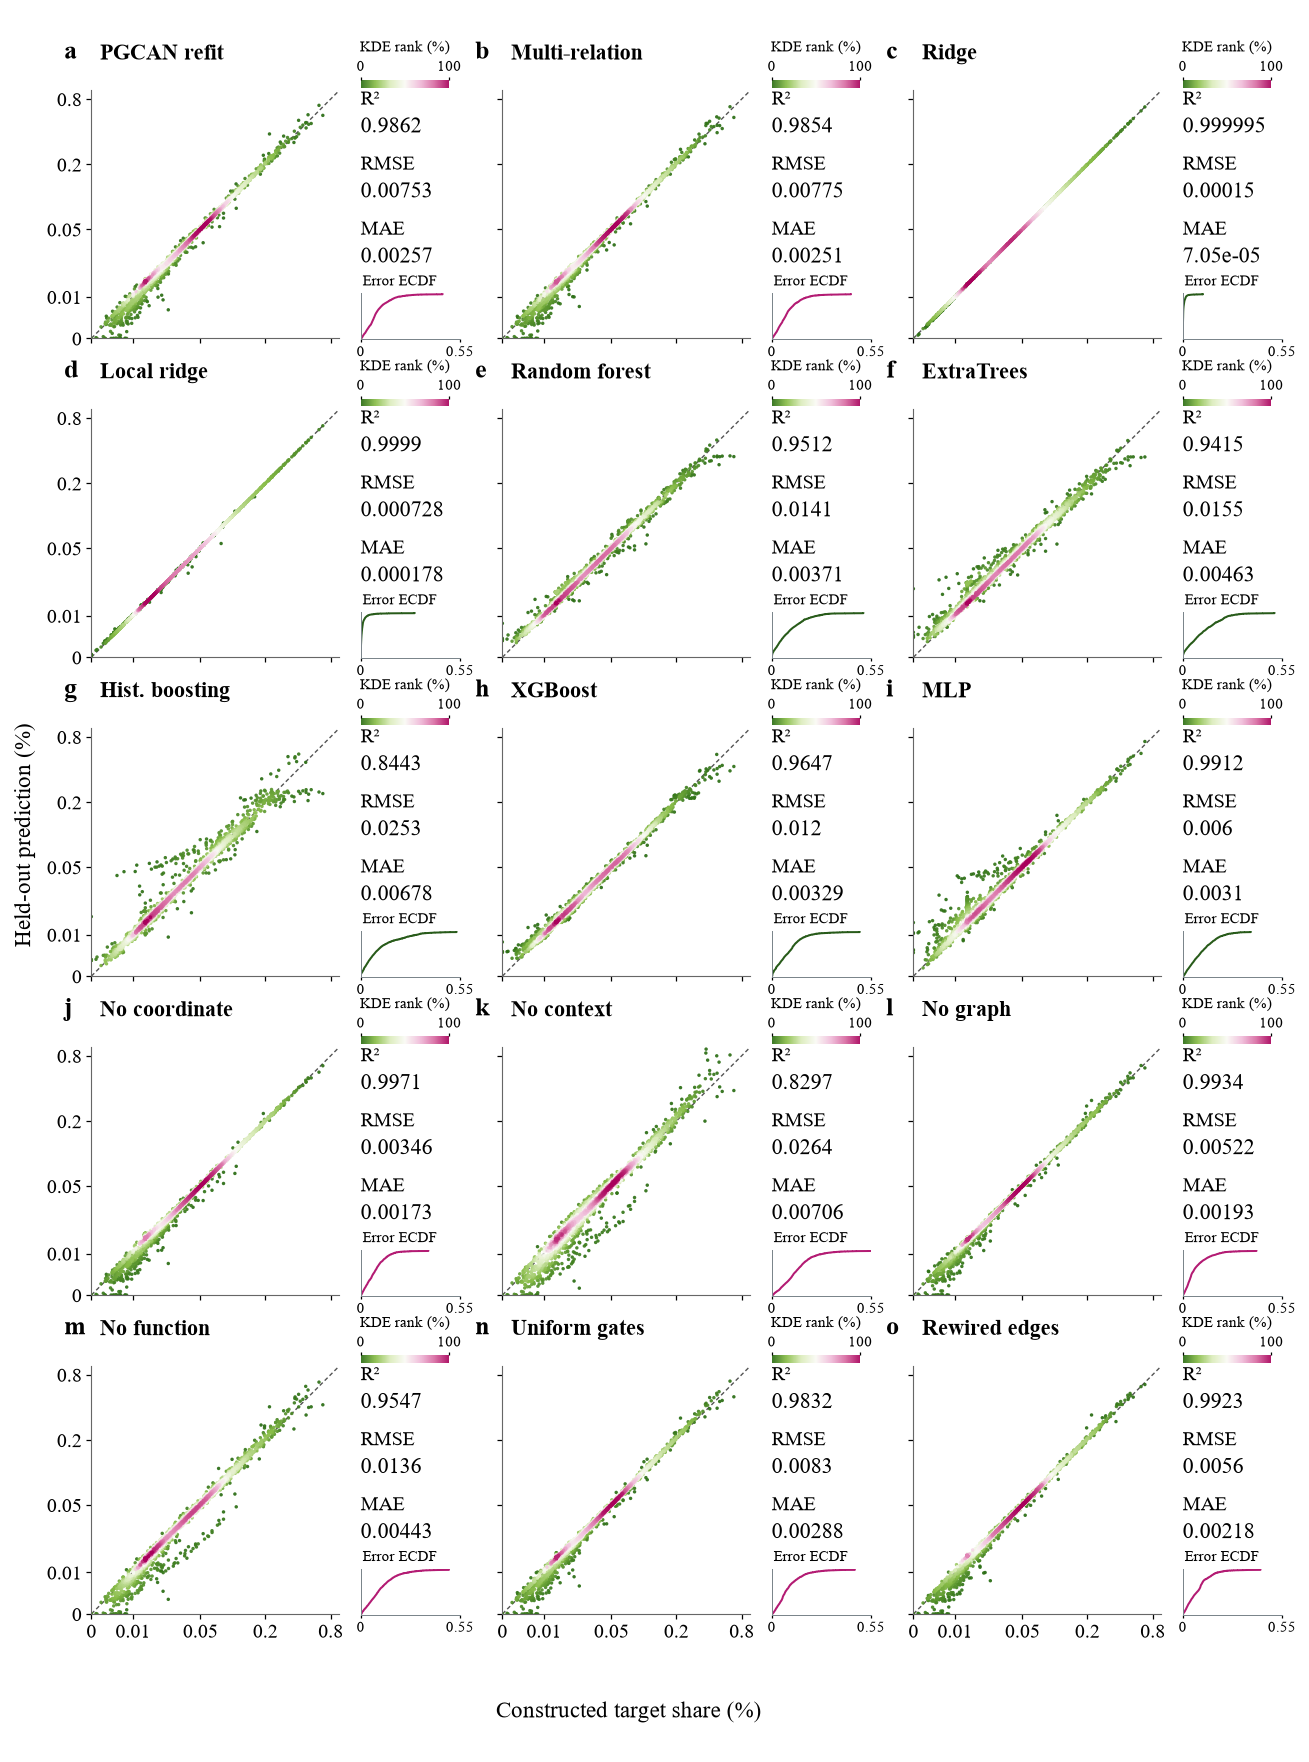
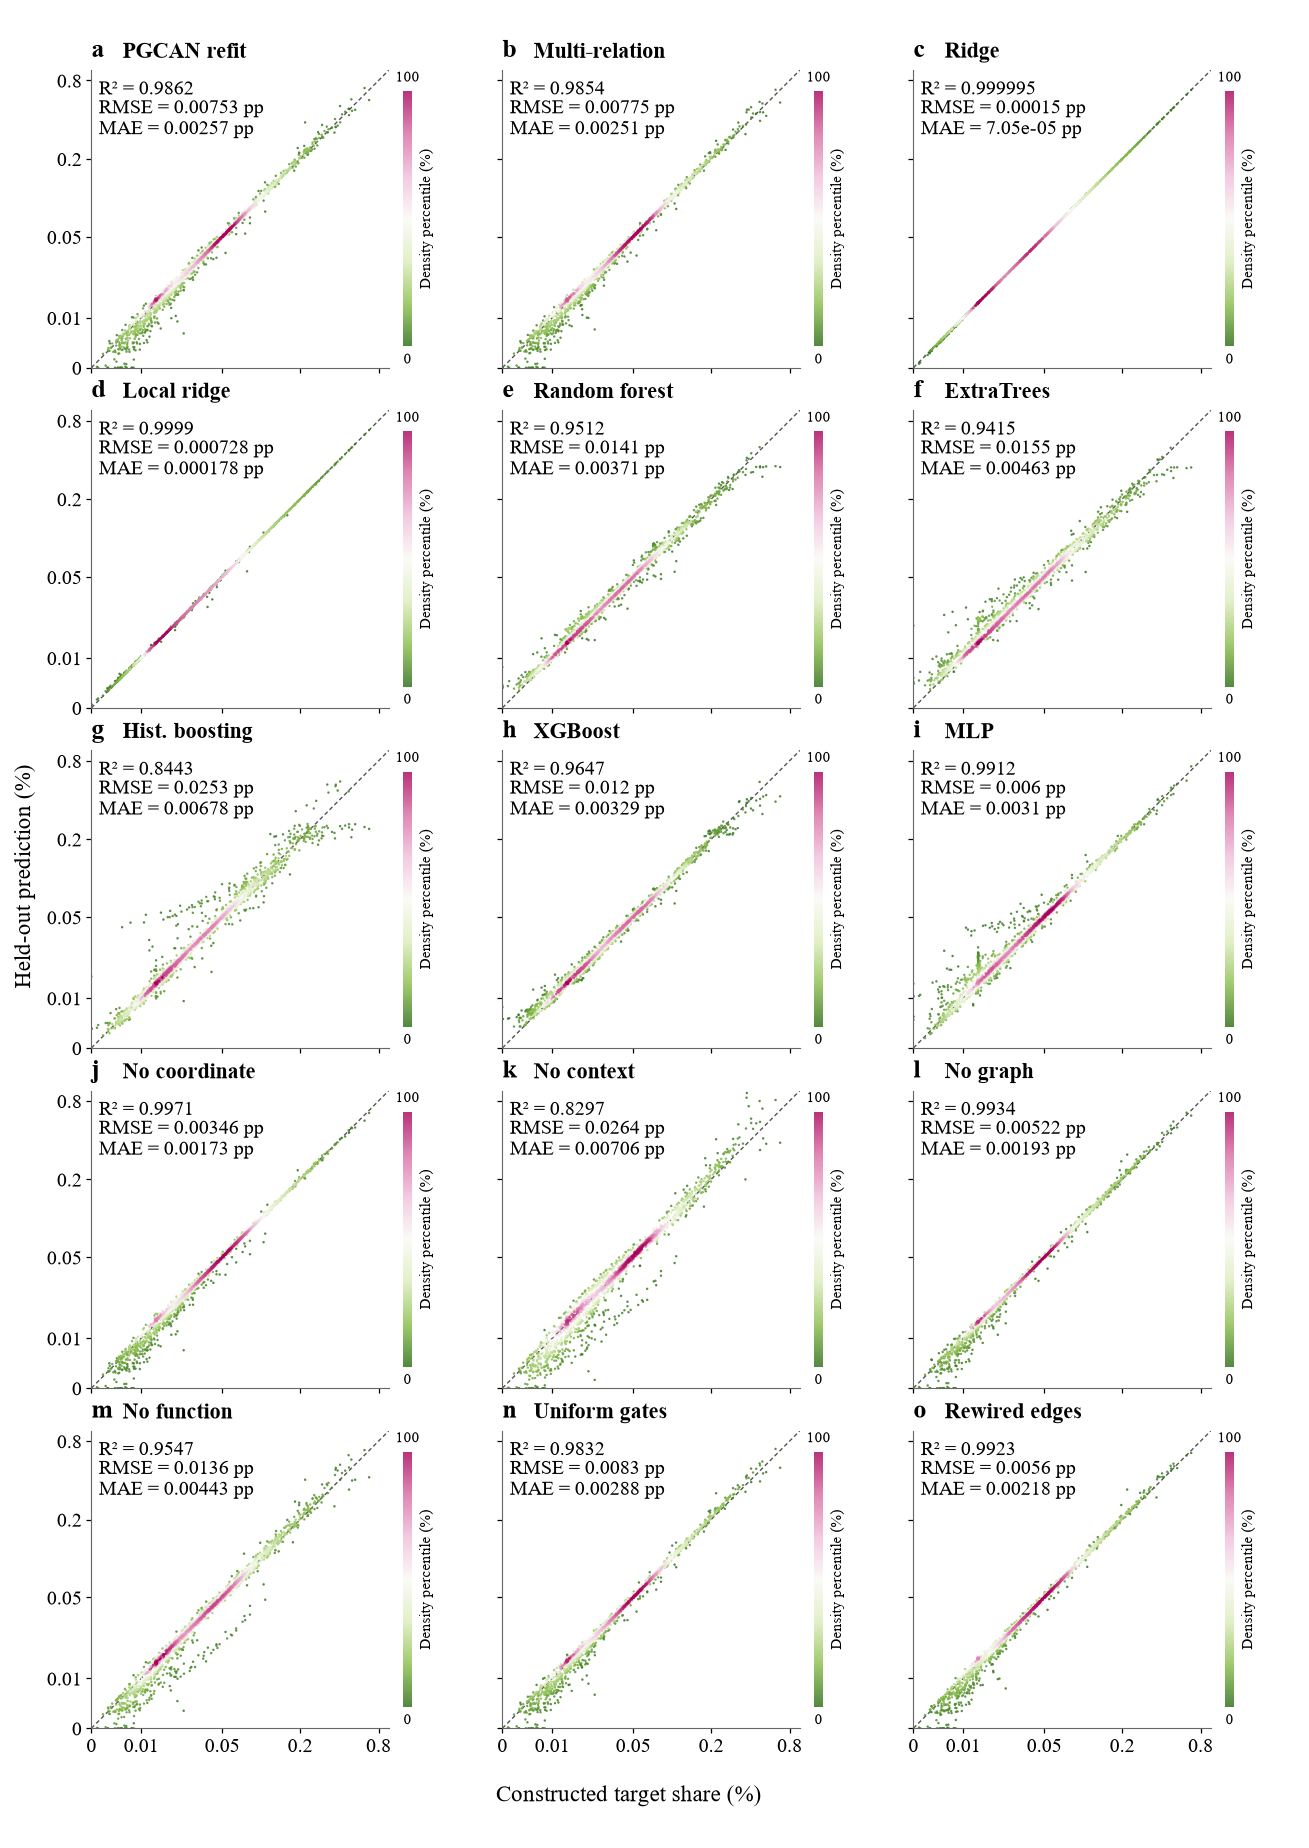
Use vertical density bars and upper-left scores in single-scatter atlas

diff --git a/analysis/plot_prediction_matrix.py b/analysis/plot_prediction_matrix.py
@@ -1,4 +1,4 @@
-"""Held-out model atlas: true point clouds, separate metrics and error ECDFs.
+"""Held-out model atlas: one true scatter, upper-left metrics and vertical bar.
 
 Explicit user requirements select black Times New Roman and pink/green. All
 1,980 real cells are drawn per model; no jitter, sampled points or fitted bands.
@@ -35,17 +35,14 @@ def draw():
     transform=lambda value:np.arcsinh(value/.01)
     upper=max(target.max(),max(a.max() for a in means.values()))*1.045
     maximum=float(transform(upper));xt=transform(target)
-    error_upper=max(np.abs(a-target).max() for a in means.values())*1.015
-    error_transform=lambda value:np.arcsinh(value/.001)
-    error_max=float(error_transform(error_upper))
-    width,height=183,247
+    width,height=183,259
     fig=plt.figure(figsize=(width/25.4,height/25.4));fig._font_scale=1.
     def axes(x,y,w,h):return fig.add_axes([x/width,y/height,w/width,h/height])
     ticks=np.array([0,.01,.05,.2,.8]);ticks=ticks[ticks<=upper]
-    metrics=[];points=[];styling=[];ecdf_records=[];kde_checks=[]
+    metrics=[];points=[];styling=[];ecdf_records=[];residual_records=[];kde_checks=[]
     for index,(key,label) in enumerate(METHODS):
-        row,col=divmod(index,3);left=12+58*col;bottom=200-45*row
-        ax=axes(left,bottom,35,35)
+        row,col=divmod(index,3);left=12+58*col;bottom=208-48*row
+        ax=axes(left,bottom,42,42)
         prediction=means[key];yp=transform(prediction);sample=np.vstack([xt,yp])
         # KDE changes colour only. Locations remain actual target/prediction
         # pairs, including zero targets. Covariance is not inflated or jittered.
@@ -56,7 +53,7 @@ def draw():
         assert np.isfinite(density).all() and (density>0).all()
         order=np.argsort(density,kind='stable')
         artist=ax.scatter(xt[order],yp[order],c=percentile[order],cmap=v.DENSITY,
-            norm=Normalize(0,100),s=1.9,lw=0,alpha=.92,rasterized=True)
+            norm=Normalize(0,100),s=.95,lw=0,alpha=.80,rasterized=True)
         ax.plot([0,maximum],[0,maximum],c='#535353',lw=.55,ls=(0,(3,2)),zorder=0)
         ax.set(xlim=(0,maximum),ylim=(0,maximum),aspect='equal')
         for axis in [ax.xaxis,ax.yaxis]:
@@ -64,35 +61,27 @@ def draw():
             axis.set_major_formatter(FixedFormatter([f'{value:g}' for value in ticks]))
         ax.tick_params(length=2,pad=1.8,labelsize=8.2,labelleft=col==0,labelbottom=row==4)
         ax.spines[['left','bottom']].set_color('#666666');ax.spines[['left','bottom']].set_linewidth(.45)
-        ax.text(-.11,1.105,string.ascii_lowercase[index],transform=ax.transAxes,
+        ax.text(0,1.025,string.ascii_lowercase[index],transform=ax.transAxes,
             fontsize=10.5,fontweight='bold',va='bottom')
-        ax.text(.035,1.105,label,transform=ax.transAxes,fontsize=8.8,fontweight='bold',va='bottom')
+        ax.text(.105,1.025,label,transform=ax.transAxes,fontsize=8.8,fontweight='bold',va='bottom')
         rmse=float(np.sqrt(mean_squared_error(target,prediction)))
         mae=float(mean_absolute_error(target,prediction));r2=float(r2_score(target,prediction))
         actual=[r2,rmse,mae]
         np.testing.assert_allclose(actual,old_metrics.loc[key,['pooled_oof_r2','pooled_oof_rmse_pp','pooled_oof_mae_pp']].to_numpy(float),rtol=1e-12,atol=1e-14)
-        info=axes(left+38,bottom+8,14,27);info.axis('off')
-        for yy,name,value in [(1.,'R²',r2),(.66,'RMSE',rmse),(.32,'MAE',mae)]:
-            info.text(0,yy,name,fontsize=8.2,va='top')
-            display=(f'{value:.6f}'.rstrip('0').rstrip('.') if value>.9999 else f'{value:.4f}') if name=='R²' else f'{value:.3g}'
-            info.text(0,yy-.14,display,fontsize=8.8,va='top')
-        cax=axes(left+38,bottom+35.4,12.5,1.1)
-        cb=fig.colorbar(artist,cax=cax,orientation='horizontal',ticks=[0,100])
-        cb.outline.set_visible(False);cb.ax.xaxis.set_ticks_position('top')
-        cb.ax.tick_params(length=1.2,pad=1,labelsize=6.2)
-        text=cb.ax.text(.5,4.2,'KDE rank (%)',transform=cb.ax.transAxes,ha='center',va='bottom',fontsize=6.2)
-        text.set_gid('compact_diagnostic_label')
-        for text in cb.ax.get_xticklabels():text.set_gid('compact_diagnostic_label')
+        r2_display=f'{r2:.6f}'.rstrip('0').rstrip('.') if r2>.9999 else f'{r2:.4f}'
+        ax.text(.025,.975,f'R² = {r2_display}\nRMSE = {rmse:.3g} pp\nMAE = {mae:.3g} pp',
+            transform=ax.transAxes,fontsize=8.2,va='top',ha='left',linespacing=1.12)
+        cax=axes(left+44,bottom+3,1.25,36)
+        cb=fig.colorbar(artist,cax=cax,orientation='vertical',ticks=[])
+        cb.outline.set_visible(False)
+        for xx,yy,txt,rotation,va in [(.5,-.025,'0',0,'top'),(.5,1.025,'100',0,'bottom'),(2.6,.5,'Density percentile (%)',90,'center')]:
+            text=cb.ax.text(xx,yy,txt,transform=cb.ax.transAxes,ha='center',va=va,rotation=rotation,fontsize=6.2)
+            text.set_gid('compact_diagnostic_label')
         residual=np.abs(prediction-target);sorted_error=np.sort(residual)
         fraction=np.arange(1,len(target)+1)/len(target)
-        small=axes(left+38,bottom-.15,14,6.5)
-        colour=v.INK if key.endswith('_direct') else v.LILAC
-        small.step(error_transform(sorted_error),fraction,where='post',c=colour,lw=.8)
-        small.set(xlim=(0,error_max),ylim=(0,1.02),xticks=[0,error_max],yticks=[])
-        small.set_xticklabels(['0',f'{error_upper:.2g}'],fontsize=6.2)
-        small.tick_params(length=1.4,pad=1);small.spines[['left','bottom']].set_linewidth(.4)
-        text=small.text(.02,1.10,'Error ECDF',transform=small.transAxes,fontsize=6.2,va='bottom');text.set_gid('compact_diagnostic_label')
-        for text in small.get_xticklabels():text.set_gid('compact_diagnostic_label')
+        signed_error=prediction-target
+        residual_records.append(pd.DataFrame({'method':key,'grid_id':cells.grid_id,
+            'target_share_pct':target,'signed_residual_pp':signed_error}))
         assert len(artist.get_offsets())==len(target)
         fig._panel_descriptions=getattr(fig,'_panel_descriptions',{})
         fig._panel_descriptions[string.ascii_lowercase[index]]=label
@@ -111,8 +100,9 @@ def draw():
     backdrop.text(.006,.526,'Held-out prediction (%)',rotation=90,ha='left',va='center',fontsize=9)
     backdrop.text(.48,.025,'Constructed target share (%)',ha='center',va='center',fontsize=9)
     fig._layout={'canvas_mm':[width,height],'panel_count':15,'primary_models_in_first_row':['PGCAN','Multi_relation','Ridge_direct'],
-        'scatter_side_mm':35,'metric_column_mm':14,'individual_horizontal_colourbars':15,'error_ecdf_insets':15,
-        'metrics_outside_data_area':True,'repeated_inner_tick_labels_suppressed':True,'no_global_title':True}
+        'scatter_side_mm':42,'individual_vertical_colourbars':15,'signed_residual_strips':0,
+        'metrics_location':'upper left inside each scatter','one_scatter_per_model':True,
+        'repeated_inner_tick_labels_suppressed':True,'no_global_title':True}
     fig._density_encoding={'type':'KDE percentile','unit':'within-panel density percentile (%)','bandwidth':'Scott',
         'point_positions':'Unmodified asinh(share_pct/0.01)','all_cells_retained':1980,'colourbar_ticks':[0,100],
         'numeric_ties':'Natural-log density rounded to 10 decimals before average-rank assignment'}
@@ -120,23 +110,23 @@ def draw():
     pd.concat(points,ignore_index=True).to_csv(S/'Benchmark_prediction_density_points.csv',index=False)
     pd.concat(styling,ignore_index=True).to_csv(S/'Benchmark_prediction_density_styling.csv',index=False)
     pd.concat(ecdf_records,ignore_index=True).to_csv(S/'Benchmark_prediction_error_ecdf.csv',index=False)
-    caption=('Held-out reconstruction and error distributions for fifteen model configurations. '
+    pd.concat(residual_records,ignore_index=True).to_csv(S/'Benchmark_prediction_signed_residuals.csv',index=False)
+    caption=('Spatially held-out predictions for fifteen model configurations. '
         'The first row contrasts PGCAN, the multi-relation candidate and ridge; rows two and three contain remaining classical baselines, and rows four and five contain six graph/branch controls. '
         'Every scatter shows all 1,980 actual cells, including six zero targets; no points are sampled, jittered or moved. Stochastic methods use the mean of three matched-seed out-of-fold predictions and deterministic methods one run. '
         'Scatter positions use identical axes with asinh(share in percent/0.01); tick labels show original percentage shares. The dashed diagonal denotes equality. '
-        'Colour is the within-panel percentile of a bivariate Gaussian kernel-density estimate in display coordinates, with Scott bandwidth: green sparse exterior to pink dense core. Each panel has a horizontal 0–100 percentile colourbar. These are density ranks, not cell counts, signed errors or comparable absolute density magnitudes. '
-        'Separate right-hand columns report R², RMSE and MAE from untransformed percentage shares; errors are percentage points (pp). Values above 0.9999 use six decimal places to distinguish near-exact from perfect reconstruction. '
-        'Each lower-right inset is the empirical cumulative distribution of absolute error for the same 1,980 cells, with common limits and asinh(error in pp/0.001) positions; endpoints show raw pp. Green ECDFs denote direct-share comparators and pink ECDFs denote other model configurations; curves are not confidence intervals. '
+        'Colour is the within-panel percentile of a bivariate Gaussian kernel-density estimate in display coordinates, with Scott bandwidth: green sparse exterior to pink dense core. Each panel has a vertical 0–100 density-percentile colourbar. These are density ranks, not cell counts, signed errors or comparable absolute density magnitudes. '
+        'The upper-left corner of each scatter reports R², RMSE and MAE from untransformed percentage shares; errors are percentage points (pp). Values above 0.9999 use six decimal places to distinguish near-exact from perfect reconstruction. Each model has exactly one scatter panel; no duplicate residual plot is included. '
         'Five spatial folds use 10 km blocks and a 1 km centroid buffer. Held-out shares retain training-mass calibration and are not renormalized against test targets. '
         'Targets are deterministic constructed proxies rather than measured emissions. All metrics and unfavourable comparisons are retained unchanged; these panels quantify proxy reconstruction only.')
     v.save(fig,'Figure_13',['Benchmark_cell_manifest.csv','Benchmark_prediction_density_metrics.csv',
-        'Benchmark_prediction_density_points.csv','Benchmark_prediction_density_styling.csv','Benchmark_prediction_error_ecdf.csv'],caption)
+        'Benchmark_prediction_density_points.csv','Benchmark_prediction_density_styling.csv','Benchmark_prediction_signed_residuals.csv'],caption)
     (P/'qa/prediction_matrix_design_review.json').write_text(json.dumps({'status':'RENDERED_FOR_REVIEW',
         'layout':v.manifest[-1]['layout'],'density_encoding':v.manifest[-1]['density_encoding'],
         'kde_checks':kde_checks,'all_numeric_metrics_unchanged':True},indent=2),encoding='utf-8')
     old=json.loads((P/'figure_manifest.json').read_text(encoding='utf-8'));new={item['figure']:item for item in v.manifest}
     current=[new.pop(item['figure'],item) for item in old if item['figure']!='Figure_14']+list(new.values())
     (P/'figure_manifest.json').write_text(json.dumps(current,indent=2,ensure_ascii=False),encoding='utf-8')
-    print('OOF_MODEL_ATLAS_READY: 15 point clouds, 15 error ECDFs; metrics unchanged',flush=True)
+    print('OOF_MODEL_ATLAS_READY: 15 single point clouds, upper-left metrics, 15 vertical density bars; metrics unchanged',flush=True)
 
 if __name__=='__main__':draw()

diff --git a/analysis/verify_prediction_atlas.py b/analysis/verify_prediction_atlas.py
@@ -1,4 +1,4 @@
-"""Independently reproduce every displayed metric, density rank and error ECDF."""
+"""Independently reproduce displayed metrics and density ranks; audit layout."""
 import os
 from pathlib import Path
 import json,hashlib
@@ -13,7 +13,7 @@ def main():
     cells=pd.read_csv(S/'Benchmark_cell_manifest.csv');target=cells.target_share.to_numpy()*100
     metrics=pd.read_csv(S/'Benchmark_prediction_density_metrics.csv')
     styling=pd.read_csv(S/'Benchmark_prediction_density_styling.csv')
-    ecdf=pd.read_csv(S/'Benchmark_prediction_error_ecdf.csv');rows=[]
+    ecdf=pd.read_csv(S/'Benchmark_prediction_error_ecdf.csv');residuals=pd.read_csv(S/'Benchmark_prediction_signed_residuals.csv');rows=[]
     assert len(metrics)==15 and len(styling)==len(ecdf)==15*1980
     old=json.loads((P/'qa/prediction_matrix_contract.json').read_text(encoding='utf-8'))
     for item in metrics.itertuples():
@@ -32,17 +32,30 @@ def main():
         curve=ecdf[ecdf.method.eq(item.method)]
         np.testing.assert_allclose(curve.absolute_error_pp,np.sort(abs(pred-target)),rtol=1e-10,atol=1e-13)
         np.testing.assert_allclose(curve.cumulative_fraction,np.arange(1,1981)/1980,atol=1e-12)
+        strip=residuals[residuals.method.eq(item.method)]
+        assert strip.grid_id.tolist()==cells.grid_id.tolist()
+        np.testing.assert_allclose(strip.target_share_pct,target,rtol=1e-12,atol=1e-13)
+        np.testing.assert_allclose(strip.signed_residual_pp,pred-target,rtol=1e-9,atol=1e-13)
         rows.append({'method':item.method,'n_points':1980,'n_ecdf_values':1980,'metrics_density_and_ecdf_reproduced':True})
     pdf=fitz.open(P/'Figures/Figure_13.pdf');page=pdf[0]
+    text=page.get_text()
+    assert text.count('RMSE =')==15 and text.count('MAE =')==15
+    assert text.count('Density percentile (%)')==15
+    assert 'Residual (pp)' not in text and 'Error ECDF' not in text
+    manifest=json.loads((P/'figure_manifest.json').read_text(encoding='utf-8'))
+    layout=next(item for item in manifest if item['figure']=='Figure_13')['layout']
+    assert layout['one_scatter_per_model'] and layout['individual_vertical_colourbars']==15
+    assert layout['metrics_location']=='upper left inside each scatter'
     fonts={s['font'] for b in page.get_text('dict')['blocks'] for line in b.get('lines',[]) for s in line['spans']}
     assert all('TimesNewRoman' in name for name in fonts)
-    print_scale=176/(page.rect.width/72*25.4)
+    print_scale=min(176/(page.rect.width/72*25.4),245/(page.rect.height/72*25.4))
     report={'status':'PASS','methods':rows,'print_width_mm':176,'print_scale_from_export':print_scale,
         'general_text_minimum_at_print_pt':8.2*print_scale,'compact_diagnostic_text_at_print_pt':6.2*print_scale,
         'point_positions_unchanged':True,'jitter':False,'observations_sampled':False,
         'all_unfavourable_results_retained':True,'original_prediction_arrays_unchanged':True,
+        'layout':layout,'exactly_one_scatter_per_model':True,'metrics_in_upper_left':True,
         'density_colour_semantics':'Within-panel KDE density percentile; not absolute counts or emissions uncertainty'}
     (P/'qa/prediction_atlas_verification.json').write_text(json.dumps(report,indent=2),encoding='utf-8')
     assert report['general_text_minimum_at_print_pt']>=7 and report['compact_diagnostic_text_at_print_pt']>=5
-    print('PREDICTION_ATLAS_PASS: all 29700 paired cells, 15 metrics, density ranks and ECDFs independently reproduced; print type checked')
+    print('PREDICTION_ATLAS_PASS: 29700 pairs, metrics and density ranks reproduced; 15 single panels, upper-left metrics and vertical density bars checked')
 if __name__=='__main__':main()

diff --git a/docs/FRAMEWORK_CODE_AUDIT.md b/docs/FRAMEWORK_CODE_AUDIT.md
@@ -1,7 +1,7 @@
 # Framework–code correspondence audit
 
 Audit date: 2026-10-22. Result: **PASS for the original PGCAN architecture**.
-The editable Figure 2 is not a diagram of the separate multi-relation candidate.
+Current Figure 2 is the expanded seven-panel API atlas. Panels c/d describe the original model, e the buffered spatial evaluation, and f the separate multi-relation candidate. The earlier editable PPT is retained as an original-model reference only.
 
 | Framework component | Executed implementation | Verification |
 |---|---|---|
@@ -19,7 +19,7 @@ The editable Figure 2 is not a diagram of the separate multi-relation candidate.
 ## Distinguish the experimental variants
 
 Original PGCAN and its spatial refit both register **5,339 parameters**, but their
-validation scopes and graph normalization differ. The original Figure 2 uses
+validation scopes and graph normalization differ. Panel c of current Figure 2 describes
 five full-domain 900-epoch fits. Buffered spatial evaluation instead fits scalers
 on training nodes, permits messages only from training sources, row-normalizes
 query weights and selects up to 450 epochs using inner spatial validation.
@@ -29,7 +29,7 @@ The **6,638-parameter multi-relation candidate** is specified in manuscript Tabl
 and audited in Figure 12. It retains one grid-node type and has three relations,
 three 9→16 encoders, a 16→3 gate from [X, coordinates, class indicators], weighted
 relation fusion and a 39→48→24→1 context branch. It is not a heterogeneous
-building–street graph and is not inserted into the original-model Figure 2.
+building–street graph and is shown separately in panel f of the expanded Figure 2.
 
 The diagram label “8-neighbour” means distance-based 8NN, not a fixed eight-cell
 Moore neighbourhood. Tensor/neuron thumbnails and inset result charts are schematic.

diff --git a/README.md b/README.md
@@ -76,10 +76,10 @@ retraining/plot regeneration is **not self-contained** without those inputs.
 
 Figure 13 places the PGCAN, multi-relation and ridge comparison first,
 then the remaining baselines and six controls. It plots every real paired
-cell without sampling or jitter, moves metrics outside the data area, and
-adds absolute-error ECDFs. Colour is the within-panel percentile of a
+cell without sampling or jitter, with metrics in each panel's upper-left
+corner and one scatter per configuration. Colour is the within-panel percentile of a
 bivariate Gaussian KDE (Scott bandwidth), **not a bin count or an error sign**.
-The compact horizontal bars show 0–100 density percentile. Numerical ties
+The individual vertical bars show 0–100 density percentile. Numerical ties
 use log density rounded to ten decimals before average-rank assignment.
 R², RMSE and MAE are unchanged. Scientific results in v0.1.0 remain valid;
 the current main branch carries this figure-design update.
